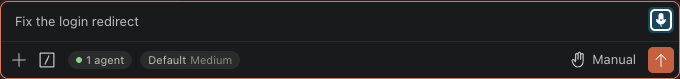
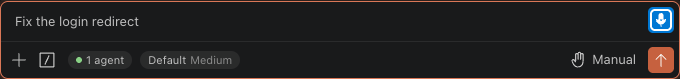
style(agents): the mic is one brand blue (#0078d4, hover #026ec1) in every theme
The 58% darkening turned Dark 2026's mic dark teal. White on #0078d4 is
4.53:1 and on #026ec1 about 5.2:1; the palette test keeps the >= 4.5
checks across Black Blue, Dark 2026, Light 2026, Dark Modern, Light Modern
and no theme. Harness expects the brand blue; screenshots updated.

Changed region(s): [[0.9265, 0.0759, 1.0, 0.4304]]

diff --git a/extensions/friedliver-agents/test/palette.test.ts b/extensions/friedliver-agents/test/palette.test.ts
@@ -91,7 +91,7 @@ describe('the design tokens keep WCAG contrast in the 2026 themes', () => {
     });
   }
 
-  it('the mic keeps a white glyph at 4.5:1 on its darkened blue in five themes and with none', () => {
+  it('the mic keeps a white glyph at 4.5:1 on its brand blue in five themes and with none', () => {
     const json = (file: string) => JSON.parse(readFileSync(file, 'utf8').replace(/^\s*\/\/.*$/gm, '').replace(/,(\s*[}\]])/g, '$1')).colors;
     const blackBlue = json(path.join(__dirname, '../../friedliver-theme/themes/friedliver-black-blue-color-theme.json'));
     const fixture = (name: string) => theme(name);
@@ -110,8 +110,7 @@ describe('the design tokens keep WCAG contrast in the 2026 themes', () => {
       for (const t of ['--mic-bg', '--mic-hover']) {
         const back = resolve(`var(${t})`, vars);
         expect(contrast(resolve('var(--mic-fg)', vars), back), `${name} ${t}`).toBeGreaterThanOrEqual(4.5);
-        // Still clearly blue: blue the strongest channel.
-        expect(back[2], `${name} ${t} is blue`).toBeGreaterThan(Math.max(back[0], back[1]));
+        expect(back.slice(0, 3), `${name} ${t} is the brand blue`).toEqual(hex(t === '--mic-bg' ? '#0078d4' : '#026ec1').slice(0, 3));
       }
     }
   });

diff --git a/extensions/friedliver-agents/media/webview.css b/extensions/friedliver-agents/media/webview.css
@@ -49,10 +49,9 @@
   --warn: var(--vscode-editorWarning-foreground, #e1c08d);
   --toggle-on: var(--button-bg);
   --effort-fill: var(--vscode-inputOption-activeBorder, #2a2b2c);
-  /* The composer's mic: the theme's button blue darkened to 58% so a white glyph keeps 4.5:1
-     even on a light button blue (Black Blue's #7cc4ff); palette.test.ts checks five themes. */
-  --mic-bg: color-mix(in srgb, var(--vscode-button-background, #0078d4) 58%, #000);
-  --mic-hover: color-mix(in srgb, var(--vscode-button-hoverBackground, #026ec1) 58%, #000);
+  /* The composer's mic: one brand blue in every theme, a white glyph (4.53:1, hover 5.2:1). */
+  --mic-bg: #0078d4;
+  --mic-hover: #026ec1;
   --mic-fg: #fff;
   /* The one loud colour of the Agent Manager: "you must decide". */
   --decision: var(--vscode-friedliver-decision, var(--focus-border));
